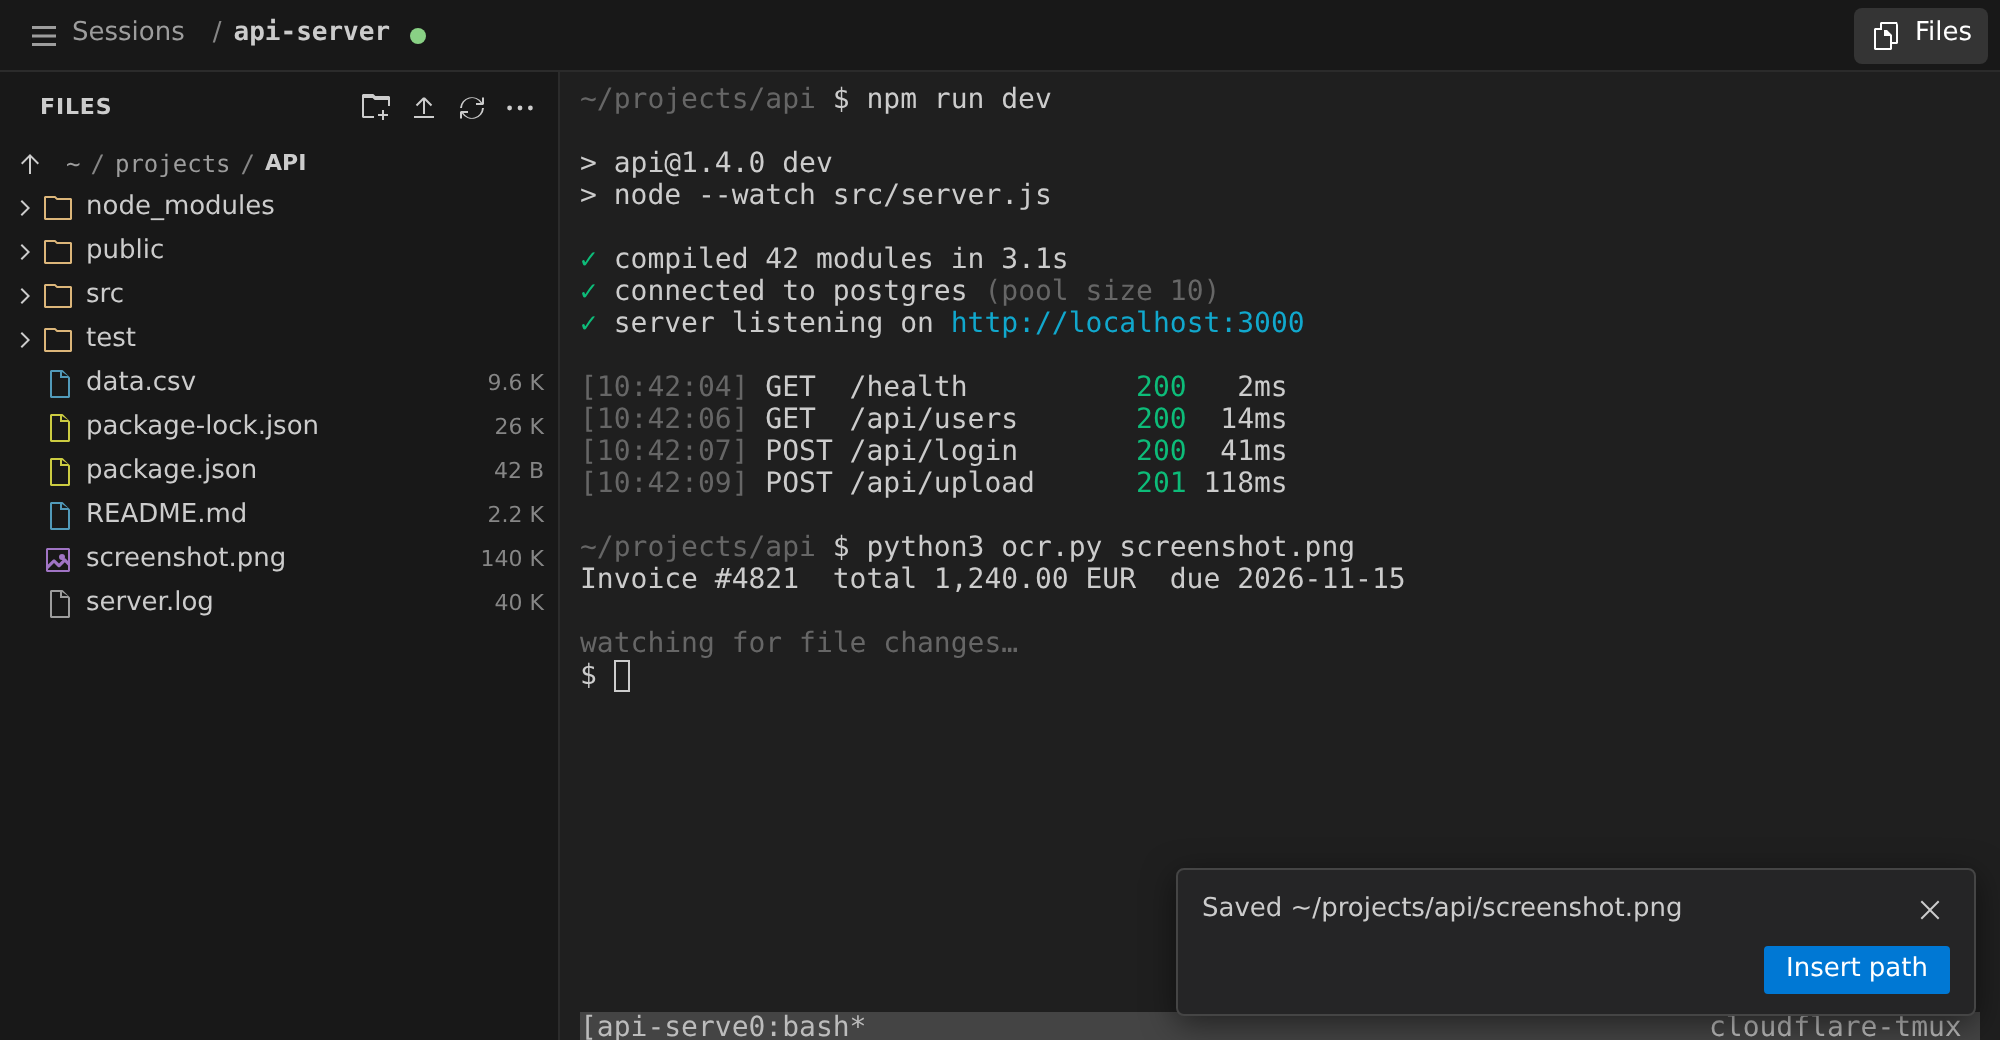
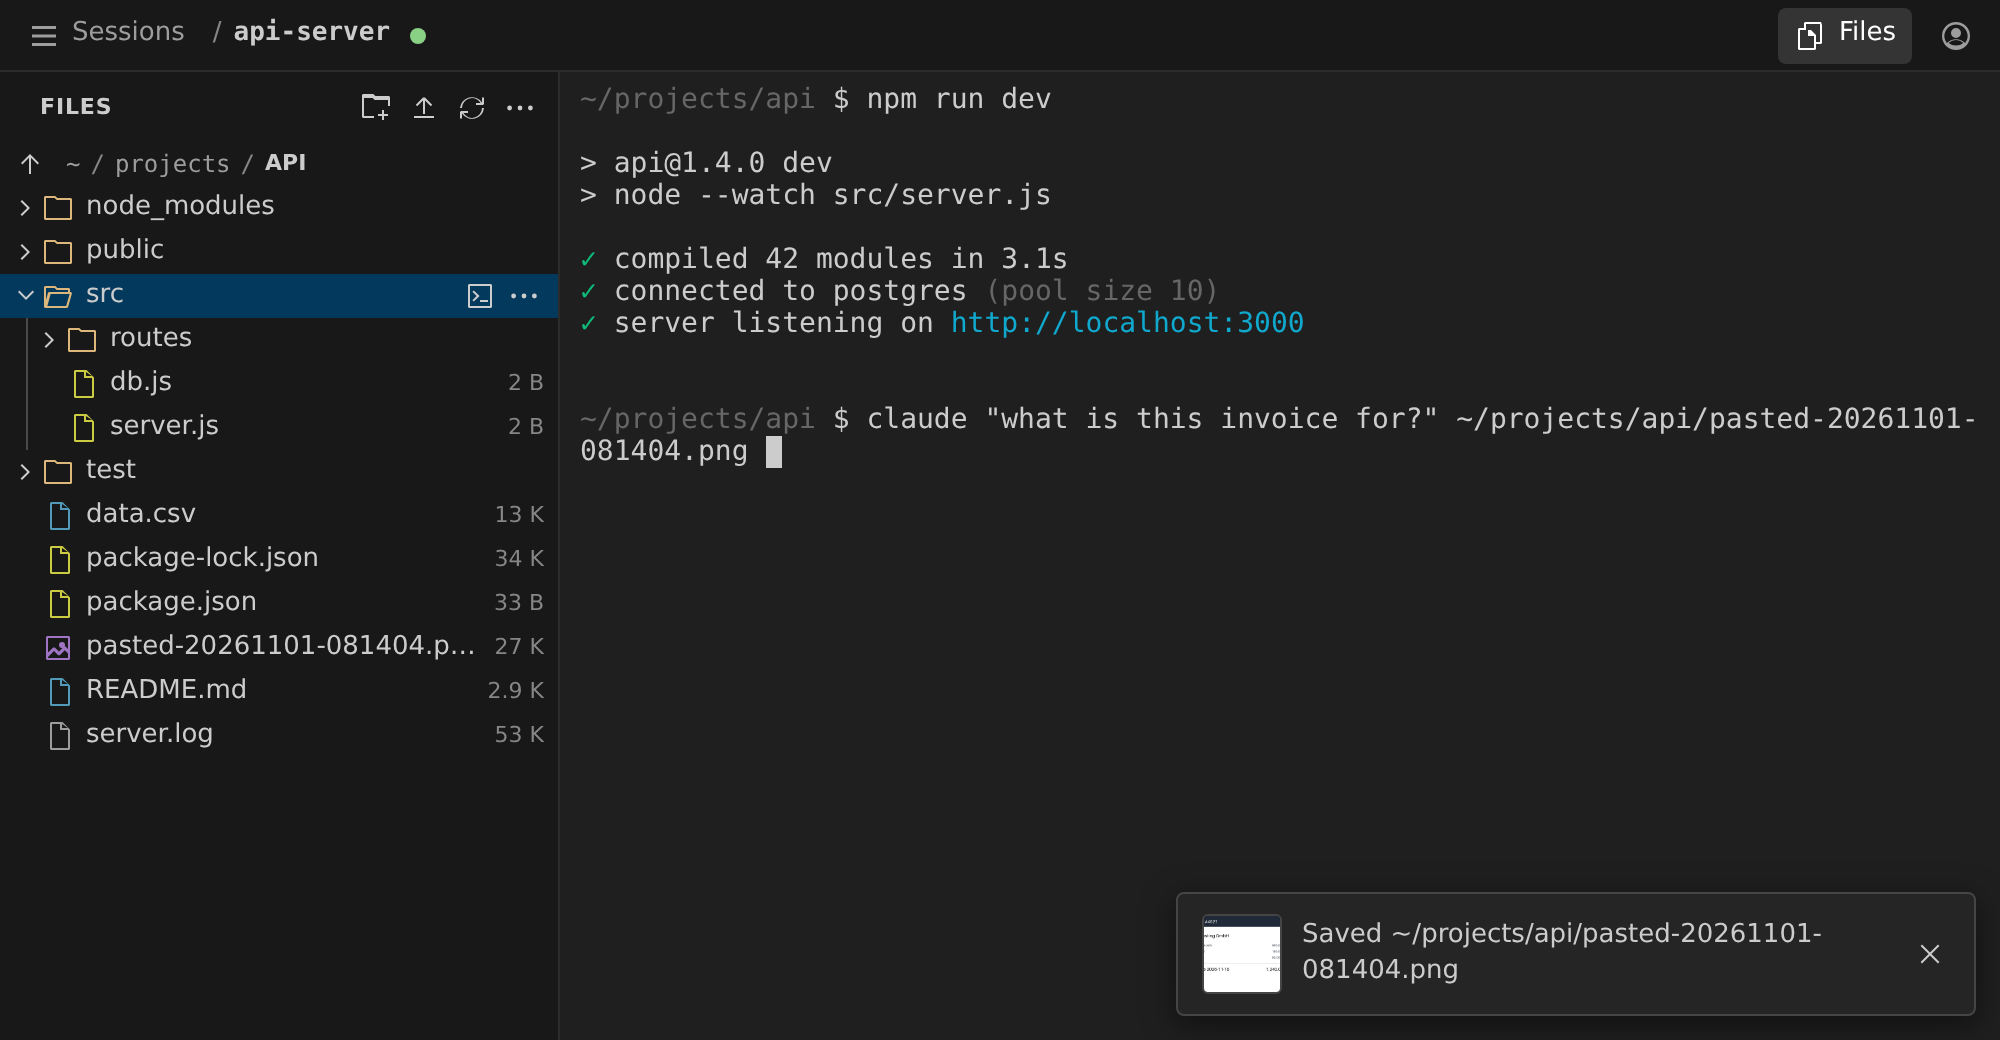
Docs: new screenshots and the app on the front page
- Retake the dashboard, terminal and file panel screenshots in the new
  design. Add the row menu and a phone.
- The docs front page shows the app instead of installer output.
- Using it: describe the new dashboard, add an On a phone section.
- README and Overview: list the file panel, uploads and phones.
- Drop the note about the old .env location. Tidy the changelog.

diff --git a/CHANGELOG.md b/CHANGELOG.md
@@ -2,26 +2,27 @@
 
 ## Unreleased
 
-- **File panel**: press *Files* in the terminal to browse your folders, download a file, upload by dragging
-  files onto the terminal or with the *Upload* button, and paste a screenshot straight into the terminal to
-  save it as a file. A *path* button types a file's path into the terminal. Everything runs as the mapped
-  Linux user through `setpriv`, uploads are capped by `MAX_UPLOAD_MB` (100 MB, Cloudflare's free-plan limit)
-  and never replace a file without asking.
-- **Uploads work like VS Code.** A pasted image or a file dropped on the terminal is saved and its path is
-  typed into the terminal. Pasting works anywhere on the page, not only with the terminal focused. A drop on
-  the panel uploads into the folder under the pointer, folders upload with their structure, and the panel
-  opens in the folder the terminal is in, with a *⌖* button to get back there. Duplicates offer *Replace*,
-  *Keep both* or *Skip*. The progress message shows a thumbnail and can cancel. New *Paste* and *+ Folder*
-  buttons read the clipboard directly and create folders, and a panel row can be dragged onto the terminal
-  to type its path.
-- **A simpler terminal page.** One slim bar on top holds the session name, a connection dot, *Files* and log
-  out. The icon bar, the tab strip and the status bar are gone, so the terminal gets the room. The file panel
-  has a splitter: drag it to resize, double-click to reset, or use the arrow keys. The width is remembered. On
-  a phone the panel covers the terminal and menus slide up from the bottom.
-- **Rename, move and delete** in the file panel. Right-click a row or press *⋯* for a menu with *Download*,
-  *Insert path*, *Copy path*, *Rename*, *Move to…* and *Delete*. Rename is inline. Drag a row onto a folder,
-  a path crumb or *↑* to move it, with *Undo* in the corner. Delete asks in a dialog with Cancel selected, and
-  nothing ever replaces an existing file.
+- **Swipe to scroll on a phone.** A swipe on the terminal scrolls tmux, vim or less, like a mouse wheel.
+  Before, swiping did nothing inside tmux.
+- **The keyboard no longer hides the prompt on a phone.** The terminal shrinks to fit above the on-screen
+  keyboard, so the line you type stays in view. This matters most on iPhone.
+- **File panel**, laid out like VS Code's Explorer. Press *Files* in the terminal's top bar. Folders expand in
+  place, a double-click downloads, and the hover icon types a file's path into the terminal. The panel opens
+  in the terminal's folder. *⋯* has *Show hidden files*, *Home folder*, *The terminal's folder* and *Open
+  folder…*. Everything runs as the mapped Linux user through `setpriv`.
+- **Uploads like VS Code.** Paste a screenshot anywhere on the page, or drop files or folders on the terminal.
+  They are saved and their paths are typed into the terminal. A drop on the panel uploads into the folder under
+  the pointer. Duplicates offer *Replace*, *Keep both* or *Skip*. The progress message shows a thumbnail and
+  can cancel. Uploads are capped by `MAX_UPLOAD_MB`, 100 MB by default, which is Cloudflare's free-plan limit.
+- **Rename, move and delete** in the file panel. Right-click a row or press *⋯* for *Download*, *Insert path
+  into terminal*, *Copy path*, *Rename…*, *Move to…* and *Delete*. Drag a row onto a folder, a path crumb or
+  *↑* to move it, with *Undo* in the corner. Delete asks first, with Cancel selected. Nothing ever replaces an
+  existing file.
+- **A simpler terminal page.** One slim bar on top holds *Sessions*, the session name, a connection dot,
+  *Files* and log out, so the terminal gets the room. Drag the splitter to resize the file panel, double-click
+  to reset, or use the arrow keys. The width is remembered. On a phone the panel covers the terminal and menus
+  slide up from the bottom.
+- **A refreshed dashboard** in the same dark style, with your name and email next to *Log out*.
 - **The `cloudflare-tmux` command**, linked into `~/.local/bin` by the installer: `status` (is it online?),
   `people`, `add`, `remove`, `config`, `logs`, `restart` and `doctor`. One command to learn, whichever install
   you have. Output is colored on a terminal and plain when piped or with `NO_COLOR`.
@@ -33,6 +34,9 @@
 - **One command to add or remove a person**: `cloudflare-tmux add carol@example.com carol` updates
   `IDENTITIES`, the Access policy and the running app. It offers to switch to the multi-user install when the
   Linux user isn't your own. `remove` locks someone out without a token. `list` shows who may log in.
+- **Docs**: new screenshots of the dashboard, the terminal, the file panel, its menu and a phone. The docs
+  site's front page shows the app instead of installer output. A new *On a phone* section covers swiping,
+  the keyboard and the key bar.
 - **Docs: a single [Add a person](docs/content/add-a-person.md) page** with the exact dashboard steps, the token
   recipe, the command, and what the new person sees. The multi-user install is no longer a choice to make up
   front: the installer asks when it's needed.

diff --git a/docs/content/usage.md b/docs/content/usage.md
@@ -1,29 +1,33 @@
 ---
 title: Using it
-description: Using the session dashboard, the terminal, the mobile key bar, and tmux itself.
+description: The session dashboard, the terminal, copy and paste, the file panel, phones, and tmux itself.
 ---
 
 # Using it
 
 ## Dashboard
 
-Opening your hostname shows the **dashboard**: every tmux session of your Linux user, most recently active
-first.
+Opening your hostname shows the **dashboard**. It lists every tmux session of your Linux user, most recently
+active first. Your name and email are at the top right, next to **Log out**.
+
+![The dashboard: your sessions, with Open, Rename and Kill](assets/img/dashboard.png)
 
 - **New session**: type a name and press *New session*. Names take letters, digits, `_` and `-`, up to 32
   characters. You're attached right away.
 - **Open**: attach to a session. A green dot means another client is attached too, such as another tab,
   another device or a local `tmux attach`.
 - **Rename** and **Kill**: rename the session, or end it and everything running in it.
-- **Log out**: ends your Cloudflare Access session.
+- **Log out**: ends your Cloudflare login.
 
 Sessions have links: `https://term.example.com/#/s/work` opens the session `work`, creating it if needed.
 
 ## Terminal
 
+![A tmux session in the browser, under one slim top bar](assets/img/terminal.png)
+
 - The bar at the top shows the session's name and a dot. Green means connected. Yellow means it is
   reconnecting, with a word on what is happening.
-- **Sessions** at the top left goes back to the dashboard. The session keeps running.
+- **Sessions**, the ☰ at the top left, goes back to the dashboard. The session keeps running.
 - **Files** at the top right opens the file panel. The person icon logs you out.
 - If the connection drops, after a Wi-Fi change or laptop sleep, the page **reconnects by itself**. If your
   Access login has expired, it reloads so you can sign in again.
@@ -75,6 +79,8 @@ resize.
 
 Right-click a row, or press its **⋯**, for a menu. On a phone the menu slides up from the bottom.
 
+![The row menu: Download, Insert path, Copy path, Rename, Move to and Delete](assets/img/menu.png)
+
 - **Rename…** turns the name into a text box. Enter saves, Escape cancels.
 - **Move** by dragging a row onto a folder, onto a part of the path, or onto **↑**. The message in the corner
   has an **Undo** button. **Move to…** asks for a folder instead, for phones and far-away folders.
@@ -104,9 +110,16 @@ whether to **Replace** it, **Keep both** as `name (2).ext`, or **Skip**. Dropped
 The file panel runs as your Linux user, so you see exactly what `ls` would show you. Uploads are limited to
 `MAX_UPLOAD_MB`, 100 MB by default, which is also what Cloudflare's free plan allows per request.
 
-## Mobile key bar
+## On a phone
 
-On touch devices a key bar appears under the terminal:
+<img src="assets/img/phone.png" width="300" alt="The terminal on a phone, with the key bar at the bottom">
+
+The terminal works on a phone too. Three things help.
+
+- **Swipe to scroll.** Swipe up or down on the terminal. It scrolls tmux, vim or less, like a mouse wheel.
+  A quick flick keeps scrolling for a moment.
+- **The prompt stays in view.** When the keyboard opens, the terminal shrinks to fit above it.
+- **A key bar** sits under the terminal:
 
 | Key | Sends |
 |---|---|
@@ -115,6 +128,8 @@ On touch devices a key bar appears under the terminal:
 | ^B | the tmux prefix, `Ctrl-b` |
 | ↑ ↓ ← → | arrow keys |
 | \| ~ | characters that are awkward on phone keyboards |
+
+The file panel covers the whole screen on a phone. Close it with **×** to get back to the terminal.
 
 ## tmux basics
 
@@ -134,6 +149,8 @@ For mouse-wheel scrolling, add this to `~/.tmux.conf`, then run `tmux source ~/.
 ```bash
 set -g mouse on
 ```
+
+With `mouse on`, a swipe on a phone scrolls tmux's history too. Swipe back to the bottom to leave scroll mode.
 
 ## Same sessions from the server
 

diff --git a/docs/content/index.md b/docs/content/index.md
@@ -8,18 +8,15 @@ description: A terminal on your own Linux server, in any browser, protected by y
 **cloudflare-tmux** gives you a terminal on your own Linux machine from any browser, including your phone.
 You sign in with your Cloudflare account. Your programs keep running when you close the tab.
 
-![A tmux session open in the browser](assets/img/terminal.png)
-
 ## Why people use it
 
 - **No open ports.** Your server connects out to Cloudflare. No port forwarding, public IP or firewall rules.
 - **Sign in with Cloudflare.** A login page stands in front. Only the people you list get through.
 - **Sessions survive.** Every terminal is a real tmux session. Lose Wi-Fi, switch devices, come back later.
-- **Files too.** Browse folders, download a file, drop files or folders in. Paste a screenshot and its path is typed for you.
-- **Works on phones.** A key bar adds Esc, Tab, Ctrl, arrows and the tmux prefix on touch screens.
+- **Files beside the terminal.** A panel like VS Code's: browse, download, rename, move and delete.
+- **Upload by drop or paste.** Drop files on the terminal, or paste a screenshot. Its path is typed for you.
+- **Works on phones.** Swipe to scroll, and a key bar adds Esc, Tab, Ctrl, arrows and the tmux prefix.
 - **One command for everything.** `./install.sh` sets it up. `cloudflare-tmux` runs it day to day.
-
-![The file panel beside the terminal: browse folders, download, upload by drag and drop, or paste a screenshot](assets/img/files.png)
 
 ## How it works
 
@@ -37,9 +34,9 @@ your server, which opens your tmux session. Your server never listens on the int
 2. **[Install](quickstart.md)**: clone, create one API token, run `./install.sh`. About five minutes.
 3. **[Add a person](add-a-person.md)**: one invite in the Cloudflare dashboard and one command.
 
-Then see [Using it](usage.md) for the dashboard, the terminal, copy and paste, files, and the phone key bar.
+Then see [Using it](usage.md) for the dashboard, the terminal, copy and paste, files, and phones.
 
-![The session dashboard: create, open, rename and kill sessions](assets/img/dashboard.png)
+![The dashboard: create, open, rename and kill sessions](assets/img/dashboard.png)
 
 ## Day to day
 

diff --git a/README.md b/README.md
@@ -19,11 +19,11 @@
 ---
 
 <p align="center">
-  <img src="docs/public/assets/img/terminal.png" alt="A tmux session open in the browser" width="49%">
-  <img src="docs/public/assets/img/dashboard.png" alt="The session dashboard" width="49%">
+  <img src="docs/public/assets/img/files.png" alt="The terminal in a browser, with the file panel open beside it after pasting a screenshot">
 </p>
 <p align="center">
-  <img src="docs/public/assets/img/files.png" alt="The file panel beside the terminal: browse folders, download, upload by drag and drop, or paste a screenshot" width="80%">
+  <img src="docs/public/assets/img/dashboard.png" alt="The dashboard: your tmux sessions, with Open, Rename and Kill" width="70%">
+  <img src="docs/public/assets/img/phone.png" alt="The terminal on a phone, with the key bar for Esc, Tab, Ctrl and arrows" width="23.5%">
 </p>
 
 ## What you get
@@ -32,7 +32,9 @@
 - **No open ports.** Your server connects out to Cloudflare. It works behind NAT and CGNAT.
 - **Sign in with your Cloudflare account.** Only the people you list get in.
 - **Sessions keep running** when you close the tab. It's real tmux, so `tmux attach` works on the server too.
-- **Files too.** Browse folders, download, drop files or folders in. Paste a screenshot and its path is typed for you.
+- **Files beside the terminal.** A panel like VS Code's: browse, download, rename, move and delete.
+- **Upload by drop or paste.** Drop files on the terminal, or paste a screenshot. Its path is typed for you.
+- **Works on phones.** Swipe to scroll. A key bar adds Esc, Tab, Ctrl and arrows.
 - **One command to set up.** `./install.sh` does the Cloudflare side and installs the services.
 
 ## How it works

diff --git a/docs/content/quickstart.md b/docs/content/quickstart.md
@@ -78,7 +78,7 @@ cloudflare-tmux doctor                       # something wrong? it tells you the
 ## Next
 
 - **Add people.** One invite in the Cloudflare dashboard and one command. See [Add a person](add-a-person.md).
-- **Learn the screen.** [Using it](usage.md) covers the dashboard, copy and paste, and the phone key bar.
+- **Learn the screen.** [Using it](usage.md) covers the dashboard, the terminal, files and phones.
 - **Something wrong?** Run `cloudflare-tmux doctor`, then see [Troubleshooting](troubleshooting.md).
   Re-running `./install.sh` is always safe.
 - **Later: secure it further.** Your Cloudflare account is now a key to a shell. The

diff --git a/docs/content/add-a-person.md b/docs/content/add-a-person.md
@@ -97,7 +97,7 @@ them as Accepted. Once they log in, `LAST LOGIN` fills in and you know the whole
 
 ## 5. Send them the link
 
-Send them `https://term.example.com` and the [Usage](usage.md) page. Here is what they see:
+Send them `https://term.example.com` and the [Using it](usage.md) page. Here is what they see:
 
 1. Cloudflare's login page with one button, **Sign in with Cloudflare**. They sign in with their own account.
 2. The dashboard, empty at first. They type a name and click **New session**.

diff --git a/docs/content/configuration.md b/docs/content/configuration.md
@@ -12,7 +12,6 @@ description: Every environment variable, flag and file cloudflare-tmux and its s
 - The multi-user service reads `/etc/cloudflare-tmux/env` instead. `install-system.sh` copies it there.
 - Real environment variables take priority over the file.
 - `ENV_FILE=/path` points the app and the scripts at a different file.
-- An older `.env` next to `server.js` still works. The setup scripts move it to the new location.
 
 | Variable | Default | Description |
 |---|---|---|
